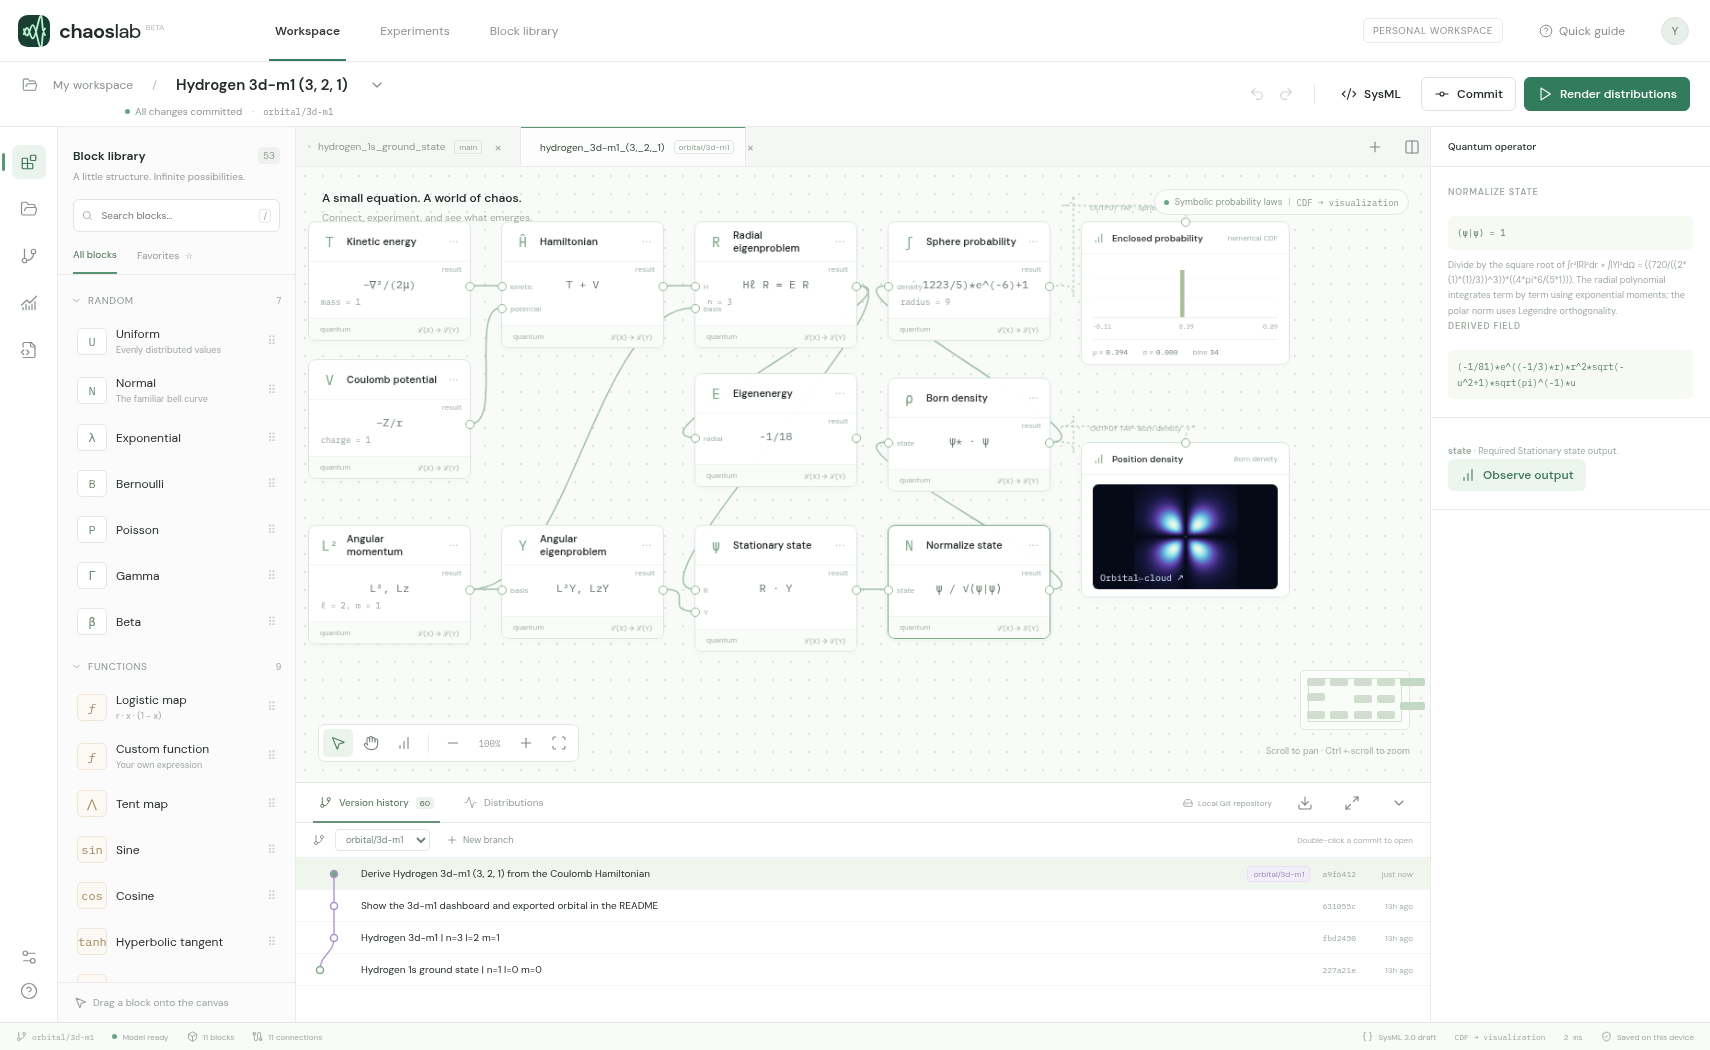
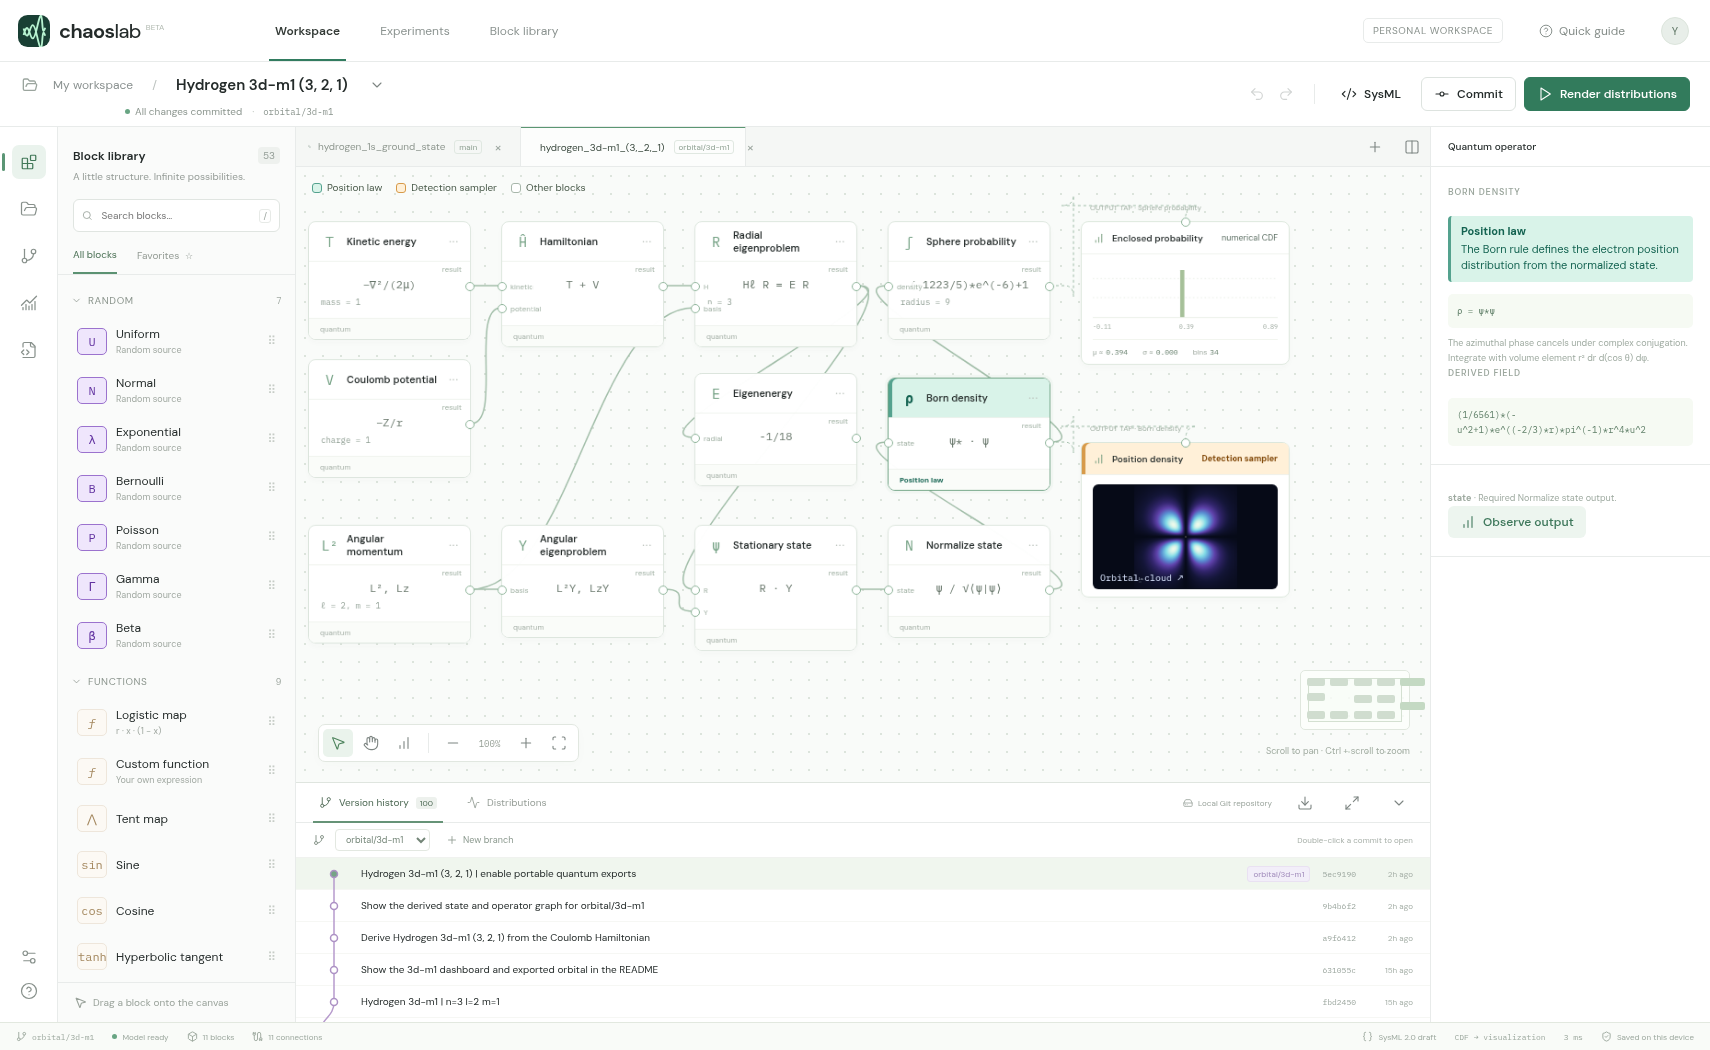
Hydrogen 3d-m1 (3, 2, 1) | identify the position law and detection sampler

diff --git a/studio.py b/studio.py
@@ -10,7 +10,7 @@ import tempfile
 import webbrowser
 
 ROOT = Path(__file__).resolve().parent
-STUDIO_REV = "1cc30c5632f1fe1f79a11ab6730f82c36a6c01e4"
+STUDIO_REV = "8657d6ecd3aa33a5a28f43219d5d6bfb8aa3edcc"
 STUDIO_REPO = "https://github.com/wa200508/chaos_lab.git"
 
 

diff --git a/README.md b/README.md
@@ -6,6 +6,8 @@ Open **Version history** in Chaos Lab to explore the 20 hydrogen designs in this
 
 The connected Hamiltonian and eigenstate solvers give $E=-1/18$ Hartree for this state.
 
+On the canvas, teal **Position law** marks where the Born rule defines the distribution of electron positions. Amber **Detection sampler** marks the tap that draws positions for the projected cloud. The central slice evaluates the density directly.
+
 ![Chaos Lab dashboard with the 3d model, m = 1, open in version history](dashboard.png)
 
 Radial nodes: 0. Polar nodes: 1. Plot half-width: 18 Bohr radii.
